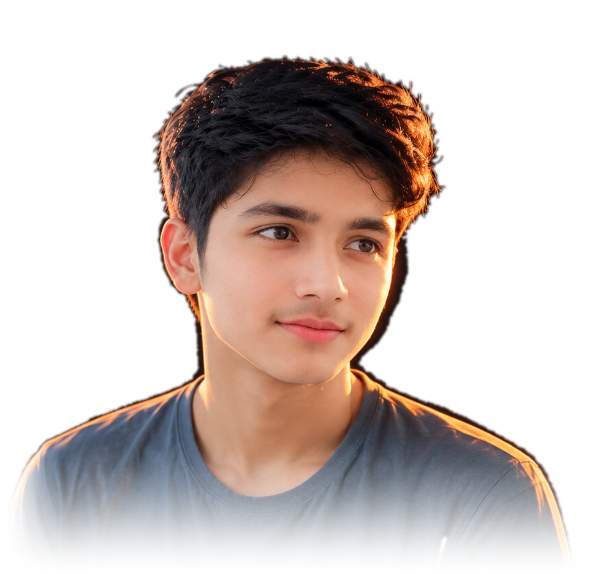
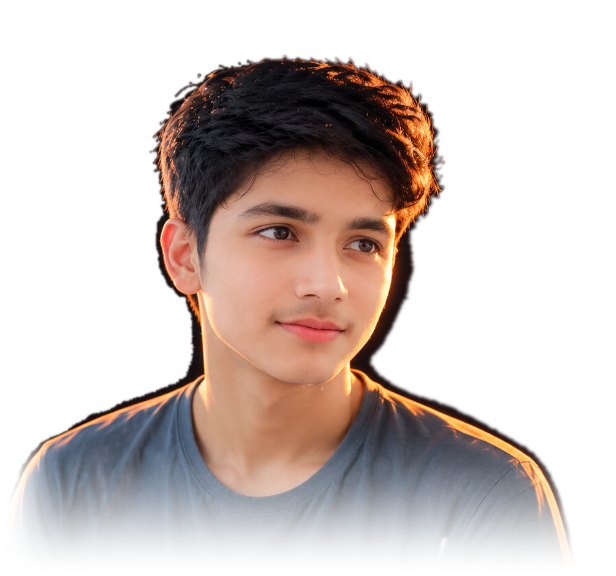
chore: drop 3.5MB of unreferenced images, add reproducible image pipeline
- images/ 4060K -> 500K (6 files had zero refs in html/css/js)
- talent-transparent.png -> assets-src/ (cutout source, not shipped)
- scripts/{cutout,fade}.py: the photo pipeline, now in-repo and path-robust
- regenerated talent-cutout.png from that pipeline (render delta: median
  1/255, max 18 - antialiasing only)

diff --git a/scripts/cutout.py b/scripts/cutout.py
@@ -1,0 +1,100 @@
+"""Remove the near-black studio background from the talent portrait.
+
+Strategy
+--------
+1. The background is a very uniform dark colour (~rgb(8,9,13), stdev < 1),
+   the person is much brighter / differently hued.
+2. Flood-fill from the image border (plus the already-transparent right half)
+   with a tight colour tolerance -> only background *connected* to the edge is
+   removed, so dark pixels inside hair / clothing are never punched out.
+3. Feather the resulting alpha by ~1px so the cut edge is not jagged.
+
+Run from anywhere:  python3 scripts/cutout.py
+Next step:          python3 scripts/fade.py
+"""
+import os
+from collections import deque
+
+from PIL import Image, ImageFilter
+
+ROOT = os.path.dirname(os.path.dirname(os.path.abspath(__file__)))
+SRC = os.path.join(ROOT, "assets-src", "talent-transparent.png")
+DST = os.path.join(ROOT, "images", "talent-cutout.png")
+TOL = 10          # max per-channel distance from the sampled background colour
+FEATHER = 0.9     # gaussian radius for the alpha edge
+
+im = Image.open(SRC).convert("RGBA")
+w, h = im.size
+px = im.load()
+
+# --- 1. sample the background colour from the opaque top-left corner ---------
+samples = []
+for y in range(0, 40, 2):
+    for x in range(0, 40, 2):
+        r, g, b, a = px[x, y]
+        if a > 200:
+            samples.append((r, g, b))
+bg = tuple(sorted(s[i] for s in samples)[len(samples) // 2] for i in range(3))
+print("background colour:", bg)
+
+
+def bg_like(x, y):
+    r, g, b, a = px[x, y]
+    return abs(r - bg[0]) <= TOL and abs(g - bg[1]) <= TOL and abs(b - bg[2]) <= TOL
+
+
+# --- 2. flood fill ----------------------------------------------------------
+mask = bytearray(w * h)          # 1 = background
+q = deque()
+
+for x in range(w):
+    for y in (0, h - 1):
+        if px[x, y][3] < 8 or bg_like(x, y):
+            i = y * w + x
+            if not mask[i]:
+                mask[i] = 1
+                q.append((x, y))
+for y in range(h):
+    for x in (0, w - 1):
+        if px[x, y][3] < 8 or bg_like(x, y):
+            i = y * w + x
+            if not mask[i]:
+                mask[i] = 1
+                q.append((x, y))
+
+while q:
+    x, y = q.popleft()
+    for nx, ny in ((x - 1, y), (x + 1, y), (x, y - 1), (x, y + 1)):
+        if 0 <= nx < w and 0 <= ny < h:
+            i = ny * w + nx
+            if not mask[i] and bg_like(nx, ny):
+                mask[i] = 1
+                q.append((nx, ny))
+
+# --- 3. apply to alpha ------------------------------------------------------
+removed = kept = 0
+for y in range(h):
+    base = y * w
+    for x in range(w):
+        if mask[base + x]:
+            r, g, b, a = px[x, y]
+            if a:
+                px[x, y] = (r, g, b, 0)
+                removed += 1
+        elif px[x, y][3]:
+            kept += 1
+print("pixels made transparent:", removed, "| opaque pixels kept:", kept)
+
+# --- 4. feather -------------------------------------------------------------
+alpha = im.getchannel("A").filter(ImageFilter.GaussianBlur(FEATHER))
+im.putalpha(alpha)
+
+im.save(DST)
+print("wrote", DST, im.size)
+
+# --- 5. report --------------------------------------------------------------
+leftover = sum(
+    1 for y in range(0, h, 2) for x in range(0, w, 2)
+    if px[x, y][3] > 200 and bg_like(x, y)
+)
+print("opaque bg-coloured pixels left (sampled):", leftover)

diff --git a/scripts/fade.py b/scripts/fade.py
@@ -1,0 +1,57 @@
+"""Soften the bottom of the talent cut-out.
+
+The portrait's subject ends around y=500; below that a dark desk slab runs to
+the frame edges, so the photo terminated in a hard horizontal line (and a short
+vertical one where the slab reached x=0). Ramping alpha to zero over the bottom
+quarter dissolves that into the page background instead.
+
+Masks (the person sits at x 153..444, so these only ever touch the desk):
+
+    bottom  1 -> 0 over y 430..576    smoothstep
+    left    0 -> 1 over x   0..64
+    right   0 -> 1 over x 560..615
+
+Run:  python3 scripts/cutout.py && python3 scripts/fade.py
+Idempotent-ish: it is written to run on the output of cutout.py, not twice.
+"""
+import os
+
+from PIL import Image
+
+ROOT = os.path.dirname(os.path.dirname(os.path.abspath(__file__)))
+SRC = os.path.join(ROOT, "images", "talent-cutout.png")
+
+
+def smoothstep(t):
+    if t <= 0:
+        return 0.0
+    if t >= 1:
+        return 1.0
+    return t * t * (3 - 2 * t)
+
+
+im = Image.open(SRC).convert("RGBA")
+w, h = im.size
+px = im.load()
+
+Y0 = 430       # bottom fade starts here
+LEFT = 64.0    # alpha 1 at x >= 64
+RIGHT = 55.0   # alpha 1 at x <= w-1-55, 0 at the far right column
+
+changed = 0
+for y in range(h):
+    vy = 1.0 - smoothstep((y - Y0) / float(h - Y0)) if y > Y0 else 1.0
+    for x in range(w):
+        r, g, b, a = px[x, y]
+        if a == 0:
+            continue
+        m = vy
+        m *= smoothstep(x / LEFT)
+        m *= smoothstep((w - 1 - x) / RIGHT)
+        if m >= 1.0:
+            continue
+        px[x, y] = (r, g, b, int(round(a * m)))
+        changed += 1
+
+im.save(SRC)
+print("faded %d px, size %s -> %s" % (changed, (w, h), SRC))
